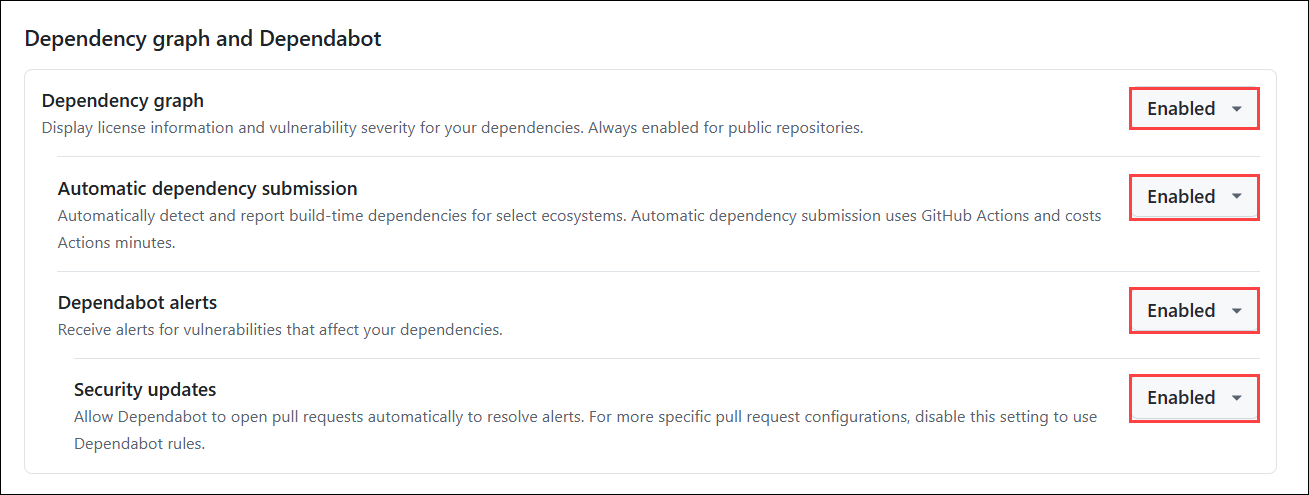
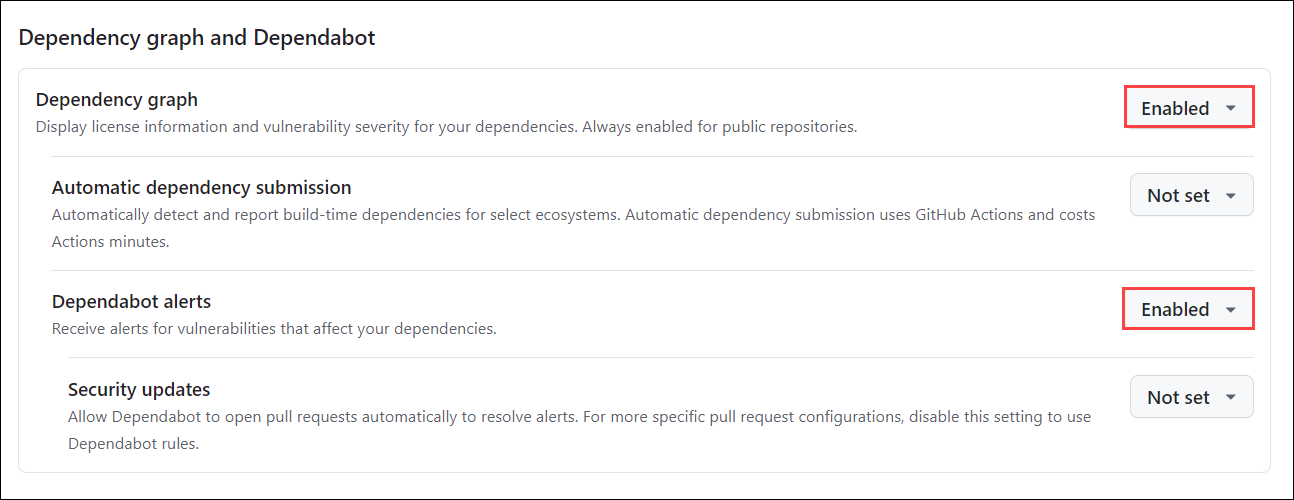
update

diff --git a/Module4-CodeScanning.md b/Module4-CodeScanning.md
@@ -1,4 +1,4 @@
-# Module 04: Code Scanning
+# Module 05: Code Scanning
 
 ## Lab Scenario
 
@@ -14,11 +14,10 @@ In this lab, you will learn and perform:
 - Task 1: Turn on the default setup on a Python repository
 - Task 2: Turn on advanced setup on a Java repository
 - Task 3: Add some vulnerable code via a pull request and view the scan results in the PR 
-- Task 4: Turn on GitHub Advanced Security for Organization
-- Task 5: Verify Github Autofix is enabled
-- Task 6: Create a code with potencial security vulnerabilities
-- Task 7: Run a code scan
-- Task 8: Apply autofixes to vulnerabilities
+- Task 4: Verify Github Autofix is enabled
+- Task 5: Create a code with potencial security vulnerabilities
+- Task 6: Run a code scan
+- Task 7: Apply autofixes to vulnerabilities
 
 ## Estimated timing: 90 minutes
 
@@ -84,51 +83,6 @@ In this task, you will learn how to activate the default CodeQL setup for a Pyth
 
 In this task, you will learn how to enable and configure the advanced CodeQL setup for a repository. You will gain skills in modifying the codeql.yml file to use the security-extended query suite and understand the benefits of advanced configurations for detecting a broader range of security vulnerabilities. You will also become familiar with the process of validating and reviewing CodeQL actions and results.
 
-### Advanced Setup
-
- Now, let us enable  Advanced set-up in a different repository.
-
-1. In the **ghas-bootcamp-xxxx-xx-xx-cloudlabsxxxx** organization, click on repositories from the top navigation pane.
-
-   ![github-advisory-database](images/getrepo.png)
-
-1. From the list of repositories click on **ghas-bootcamp-java** to begin working through this module. 
-
-   ![github-advisory-database](images/i7.png)
-
-1. Next, we're going to enable Advanced Setup for one of our compiled language repositories by going back to the `ghas-bootcamp-java` repository.
-
-1. In the GitHub repository navigate to **Settings** from the top navigation pane and click on **Code Security** under Security.
-
-   ![github-advisory-database](images/image1.png)
-
-1. If code scanning is already enabled, select "Advanced Security" from the dropdown to switch to the advanced option.
-   
-   ![github-advisory-database](images/switch_advance.png)
-
-1. A Pop-up Appears disbale Codeql
-
-   ![github-advisory-database](images/disable_codeql.png)
-   
-1. Scroll to the right then click on the **Setup (1)** button and then click on **Advanced (2)**
-
-   ![github-advisory-database](images/sec16.png)
-
-   >**Note:** If it is already enabled, click on **Switch to Advanced**
-
-1. Now you are redirect to the codeql.yml file in github/ workflows directory, and we need to copy the string **queries: security-extended (1)** from the **codeql.yml** file  and append this to a new line at number 66 under **Initialize CodeQL** section , which will read as **queries: security-extended (2)** as shown in the below screenshot. Commit these changes to your **main branch (3)**.
-
-   ![github-advisory-database](images/java-codeql-ymlat.png)
-
-   >**Note:** When updating the `codeql.yml` file, be aware that the line number for the **`Initialize CodeQL`** section may shift slightly, potentially changing from line 66 to one or two lines higher or lower. Ensure you append the string **`queries: security-extended`** to the correct location under this section based on the current line numbers in your file.
-  
-1. Now,  go to the **Actions** tab to confirm the CodeQL action is running.
-
-   ![github-advisory-database](images/gj.png)
-   
-1. You can also review the code and results of that action.
-
-   ![github-advisory-database](images/runactions.png)
 
    
    > **Congratulations** on completing the task! Now, it's time to validate it. Here are the steps:
@@ -149,7 +103,7 @@ In this task, you will learn how to enable and configure the advanced CodeQL set
 
 ### Task 3.1: Pull Request scans and Accurate Findings
 
-In this task, you will learn how to enhance CodeQL's security analysis by enabling advanced query configurations and integrating extended security queries. You will gain experience in modifying CodeQL workflows, committing changes related to security vulnerabilities in code, and understanding how CodeQL will accurately identify specific issues, such as clear-text logging of sensitive information, while filtering out less relevant findings. This will deepen your understanding of leveraging CodeQL for more precise and effective security scanning in your codebase.
+In this task, you will learn how to enhance CodeQL's security analysis by enabling advanced query configurations and integrating extended security queries. You will gain experience in modifying CodeQL workflows, committing changes related to security vulnerabilities in code, and understanding how CodeQL will accurately identify specific issues, such as clear-text logging of sensitive information, while filtering out less relevant findings. This will depend your understanding of leveraging CodeQL for more precise and effective security scanning in your codebase.
 
 1. Next, we're going to enable _Advanced setup_ for one of our interpreted language repositories by going back to the `ghas-bootcamp-python` repository. Follow the instructions from the **Getting Started** section to go to the `ghas-bootcamp-python` repository.
 
@@ -199,69 +153,11 @@ In this task, you will learn how to enhance CodeQL's security analysis by enabli
 
      ![clear-text-logging-finding](images/prfailat01.png)
 
-     ![clear-text-logging-finding](images/prfailat02.png)
-
-## Task 4: Turn on GitHub Advanced Security for Organization.
-
-### About the GitHub-recommended security configuration
-
-The GitHub-recommended security configuration is a collection of enablement settings for GitHub's security features that is created and maintained by subject matter experts at GitHub. The GitHub-recommended security configuration is designed to successfully reduce the security risks for low- and high-impact repositories. We recommend you apply this configuration to all the repositories in your organization.
-
-   Refer to the link for more information. [About the GitHub-recommended security configuration](https://docs.github.com/en/enterprise-cloud@latest/code-security/securing-your-organization/enabling-security-features-in-your-organization/applying-the-github-recommended-security-configuration-in-your-organization)
-
-In this task, you will configure and apply security settings across all repositories within an organization. 
- 
-1. On the **Home** page, click on your **profile** icon in the top right corner.
-
-   ![Profile Menu](./images/orgprofile.png)
-
-2. Select **Your organizations** from the dropdown menu.
-
-   ![Your Organizations](./images/org.png)
-
-3. Choose **ghas-bootcamp-xxxx-xx-xx-cloudlabsxxx** from the list of organizations.
-
-   ![Select Organization](./images/ghas-exercise1-4.png)
-
-4. Navigate to the repository and click on the **Settings** tab.
-
-   ![Repository Settings](./images/mod1org.png)
-
-5. In the Settings menu, click-on **Configurations** under Code Security under Security section.
-
-   ![Code Security Configurations](./images/mod1org1.png)
-
-6. Click on **Apply to** and select **All repositories** to apply the configuration.
-
-   ![Apply to All Repositories](./images/mod1org2.png)
-
-7. Click on **Apply** to confirm the configuration changes, when the prompt appears.
-
-   ![Apply Configuration](./images/advance-scanning7.png)
-
-   > **Note**: If the configuration fails for any of the repositories, it could be due to the existing advanced setup.
-   
-   > **Note**: Follow the steps below for the repositories where the configuration is failed.
-
-   ![](./images/i9.png)
-
-8. Now navigate to that repository for which the configuration is getting failed.
-
-   ![](./images/i10.png)
-
-9. From left pane select **Code security**, and under Code scanning , click on **setup** and select **Default**.
-
-   ![](./images/i11.png)
-
-10. On the CodeQL default configuration pop up , click on **Enable CodeQL**
-
-    ![](./images/i12.png)
-
-11. Again perform step 1 to 7 to apply configurations for all the repositories.
+     ![clear-text-logging-finding](images/prfailat02.png) 
 
 # Fix code vulnerabilities using Github Copilot Autofix
 
-## Task 5:  Verify Github Autofix is enabled
+## Task 4:  Verify Github Autofix is enabled
 
 1. Navigate to your repository.
 2. Click on the Settings icon
@@ -272,7 +168,7 @@ In this task, you will configure and apply security settings across all reposito
 
     ![](./images/autofix.png)
 
-## Task 6: Create a code with potencial security vulnerabilities
+## Task 5: Create a code with potencial security vulnerabilities
 
 1. Create a new file in the repository **ghas-bootcamp-python**
 1. Click on the Add file button and select Create new file.
@@ -327,7 +223,7 @@ if __name__ == '__main__':
 7. Verify the file:
 Ensure that the file is created and the code is correctly saved in your repository.
 
-## Task 7: Run a code scan
+## Task 6: Run a code scan
 
 1. In the repository page, navigate to **Actions** tab to view the workflow.
 
@@ -345,7 +241,7 @@ Ensure that the file is created and the code is correctly saved in your reposito
 
     > Note: Ensure that the CodeQL scan completes successfully and identifies any vulnerabilities.
 
-## Task 8: Apply autofixes to vulnerabilities
+## Task 7: Apply autofixes to vulnerabilities
 
 1. Navigate to the Security tab in your repository, and then click on Code scanning.
 
@@ -379,6 +275,5 @@ In this lab you have completed the following:
 - Turned on the default setup on a Python repository 
 - Turned on the advanced setup on a Java repository
 - Added some vulnerable code via a pull request and viewed the scan results in the PR.
-- Turned on GitHub Advanced Security for Organization
 - Create a code with potencial security vulnerabilities
 - Apply autofixes to fix code vulnerabilities

diff --git a/Adv_sec_org.md b/Adv_sec_org.md
@@ -11,8 +11,9 @@ In this lab, you will perform:
 
 - Task 1: Applying security settings in your organization.
 
-## Estimated Timing: 20 minutes
+- Task 2: Activate Actions for All Repositories
 
+## Estimated Timing: 20 minutes
 
 ### Task 1: Applying security settings in your organization.
 
@@ -55,7 +56,7 @@ Applying the security configuration to all repositories in your organization
    ![dep1](./images/dep1.png)
    ![dep2](./images/dep3.png)
 
-   >**Note:** Here, we are enable this for all.
+   >**Note:** Here, we will leave it set to the default.
 
 1. In the **Code Scanning** section, the default setup for Code Scanning is enabled.
 
@@ -83,7 +84,7 @@ Applying the security configuration to all repositories in your organization
 
 1. You will find that the organization configurations for **Security_settings_enable** are enforced on 6 repositories.
 
-   ![Code Security Configurations](./images/codesec3.png)
+   ![Code Security Configurations](./images/codesec3n.png)
 
    >**Note:** If it’s not visible, please refresh your page.
 
@@ -101,12 +102,34 @@ Applying the security configuration to all repositories in your organization
 
 1. Here, you can review your alerts in the security overview.
 
-   ![Picture1](./images/advance-scanning6at.png)
+   ![Picture1](./images/advance-scanning6atn.png)
 
    >**Note:** Here, you will find that the security features are enabled for the repository present in the organization. You will also find this in other repositories, and you are free to check them as well.
+
+## Task 2: Activate Actions for All Repositories
+
+GitHub Actions is a continuous integration and continuous delivery (CI/CD) platform that allows you to automate your build, test, and deployment pipeline. You can create workflows that run tests whenever you push a change to your repository, or that deploy merged pull requests to production. You will learn how to enable GitHub Actions for repositories to ensure workflows run seamlessly. This includes configuring the settings to allow all actions and reusable workflows.
+
+1. Choose **ghas-bootcamp-xxxx-xx-xx-cloudlabsxxx** from the list of organizations.
+
+   ![Select Organization](./images/ghas-exercise1-4.png)
+
+1. Navigate to the repository and click on the **Settings** tab.
+
+   ![Repository Settings](./images/mod1org.png)
+
+1. In the Settings menu, click-on **General** under **Actions** from the **Code, planning, and automation** section.
+
+   ![Code Security Configurations](./images/mod1org1n.png)
+
+1. Select **Allow all actions and reusable workflows (1)**, and then click **Save (2)** to apply the changes.
+
+   ![github-advisory-database](images/actionsn.png)
 
 ## Review
 
 In this module, we have completed the following:
 
 - Applying security settings in your organization
+
+- Activate Actions for All Repositories

diff --git a/Module3-Software_Composition_Analysis.md b/Module3-Software_Composition_Analysis.md
@@ -1,4 +1,4 @@
-# Module 03: Software Composition Analysis
+# Module 04: Software Composition Analysis
 
 ## Lab Scenario
 
@@ -62,24 +62,6 @@ In this lab, you will perform:
 
 GitHub's dependency submission API supports Software Composition Analysis (SCA). It provides a GitHub API that allows uploading a complete list of the dependencies used by a repository (or, more precisely, a particular build of the application in the repository).
 The process involves adding all dependencies from a repository to the dependency graph. Particularly those resolved during software compilation or building. Even if they are not listed in a manifest file like pom.xml. When new dependency versions are released, Dependabot utilizes data submitted via the dependency submission API to generate Pull requests.
-
-### Enable Actions
-
-GitHub Actions is a continuous integration and continuous delivery (CI/CD) platform that allows you to automate your build, test, and deployment pipeline. You can create workflows that run tests whenever you push a change to your repository, or that deploy merged pull requests to production. You will learn how to enable GitHub Actions for repositories to ensure workflows run seamlessly. This includes configuring the settings to allow all actions and reusable workflows.
-
-1. In the **ghas-bootcamp-xxxx-xx-xx-cloudlabsxxxx** organization, click on repositories from the top navigation pane.
-
-   ![github-advisory-database](images/getrepo.png)
-
-1. From the list of repositories click on **ghas-bootcamp-webgoat** to begin working through this module.
-
-   ![github-advisory-database](images/i6a.png)
-
-1. In the GitHub repository, go to **Settings (1)** from the top navigation bar, click on **General (3)** under **Actions (2)**, select **Allow all actions and reusable workflows (4)**, and then click **Save (5)** to apply the changes.
-
-   ![github-advisory-database](images/actions.png)
-
-1. Repeat the same process for the all repositories.
 
 ### Create Workflow
 

diff --git a/Module2-SecretScanning.md b/Module2-SecretScanning.md
@@ -1,4 +1,4 @@
-# Module 02: Secret Scanning
+# Module 03: Secret Scanning
 
 ## Lab Scenario
 
@@ -7,7 +7,7 @@ This lab guides users through enabling GitHub secret scanning for an organizatio
 ## Lab Objectives
 In this lab, you will perform:
 
-- Task 1: Turn on secret scanning for the entire organization and review results
+- Task 1: Demonstrate Secret Scanning Functionality
 - Task 2: Turn on push protection and try pushing a new secret (a GitHub token) into a repository
 - Task 3: Create a custom secret pattern and view the results 
 - Task 4: Understand the results 
@@ -18,7 +18,7 @@ In this lab, you will perform:
 
    ![Picture1](./images/ar02.png)
 
-## Task 1: Turn on secret scanning for the entire organization and review results
+## Task 1: Demonstrate Secret Scanning Functionality
 
 ### What is secret scanning?
 
@@ -105,14 +105,6 @@ In this lab, Personal Access Tokens (PATs) are used as example secrets to demons
    ![Picture1](./images/index.png)
 
    ![Picture1](./images/index1.png)
-
-1. Again click on **Commit changes**.    
-
-   ![Picture1](./images/index2.png)      
-
-1. When pop-up is prompted select **Allow Secret** **(1)**.
-
-   ![Picture](./images/secret-scanning12.png)
 
 1. Click on **Commit changes** and then click on **Commit changes** again to commit directly to default branch.
 
@@ -272,7 +264,8 @@ Please feel free to go through the documents for further understanding:[Security
 ## Review
 
 In this lab, we have completed the following:
- - Turned on secret scanning for the entire organization
+
+ - Demonstrate Secret Scanning Functionality
  - Turned on push protection and tried pushing a new secret (a GitHub token) into a repository
  - Created a custom secret pattern
  - Understanding the results 

diff --git a/Module6-Microsoft_Defeneder_for_cloud_integration.md b/Module6-Microsoft_Defeneder_for_cloud_integration.md
@@ -1,4 +1,4 @@
-# Module 06: Microsoft Defender for Cloud Integration
+# Module 08: Microsoft Defender for Cloud Integration
 
 ## Lab Scenario
 

diff --git a/Module5-Scaling_out_ghas.md b/Module5-Scaling_out_ghas.md
@@ -1,4 +1,4 @@
-# Module 05: Scaling out GitHub Advanced Security
+# Module 07: Scaling out GitHub Advanced Security
 
 ## Lab Scenario
 

diff --git a/Module08-SecurityCampaign.md b/Module08-SecurityCampaign.md
@@ -1,4 +1,4 @@
-# Module 05: Security Campaign
+# Module 06: Security Campaign
 
 ## Lab Scenario
 
